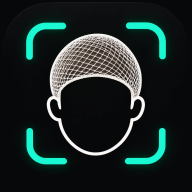
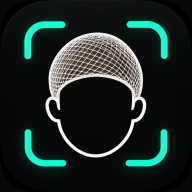
אייקון מעודכן
Claude-Session: https://claude.ai/code/session_019CzfL7Y6QY2YyrrcdTFzYe

diff --git a/index.html b/index.html
@@ -7,8 +7,8 @@
 <meta name="theme-color" content="#0f171a">
 <meta name="description" content="מוכנים לראות את עצמכם עם Optune? הדמיה על התמונה שלכם.">
 <link rel="manifest" href="manifest.webmanifest">
-<link rel="icon" href="icon-192.png?v=2">
-<link rel="apple-touch-icon" href="icon-192.png?v=2">
+<link rel="icon" href="icon-192.png?v=3">
+<link rel="apple-touch-icon" href="icon-192.png?v=3">
 <script>
 // running as its own website (not inside Claude): saving goes straight to the phone, no Claude helpers
 if(!window.claude){window.claude={use:async n=>n==="downloads"?{save:async({filename,data})=>{

diff --git a/sw.js b/sw.js
@@ -1,5 +1,5 @@
 // keeps the face/hair models on the phone; the app itself is always fetched fresh when there is a connection
-const C="tiruoti-v10";
+const C="tiruoti-v11";
 self.addEventListener("install",e=>self.skipWaiting());
 self.addEventListener("activate",e=>e.waitUntil(caches.keys().then(ks=>Promise.all(ks.filter(k=>k!==C).map(k=>caches.delete(k)))).then(()=>self.clients.claim())));
 self.addEventListener("fetch",e=>{const r=e.request;if(r.method!=="GET"||new URL(r.url).origin!==location.origin)return;
